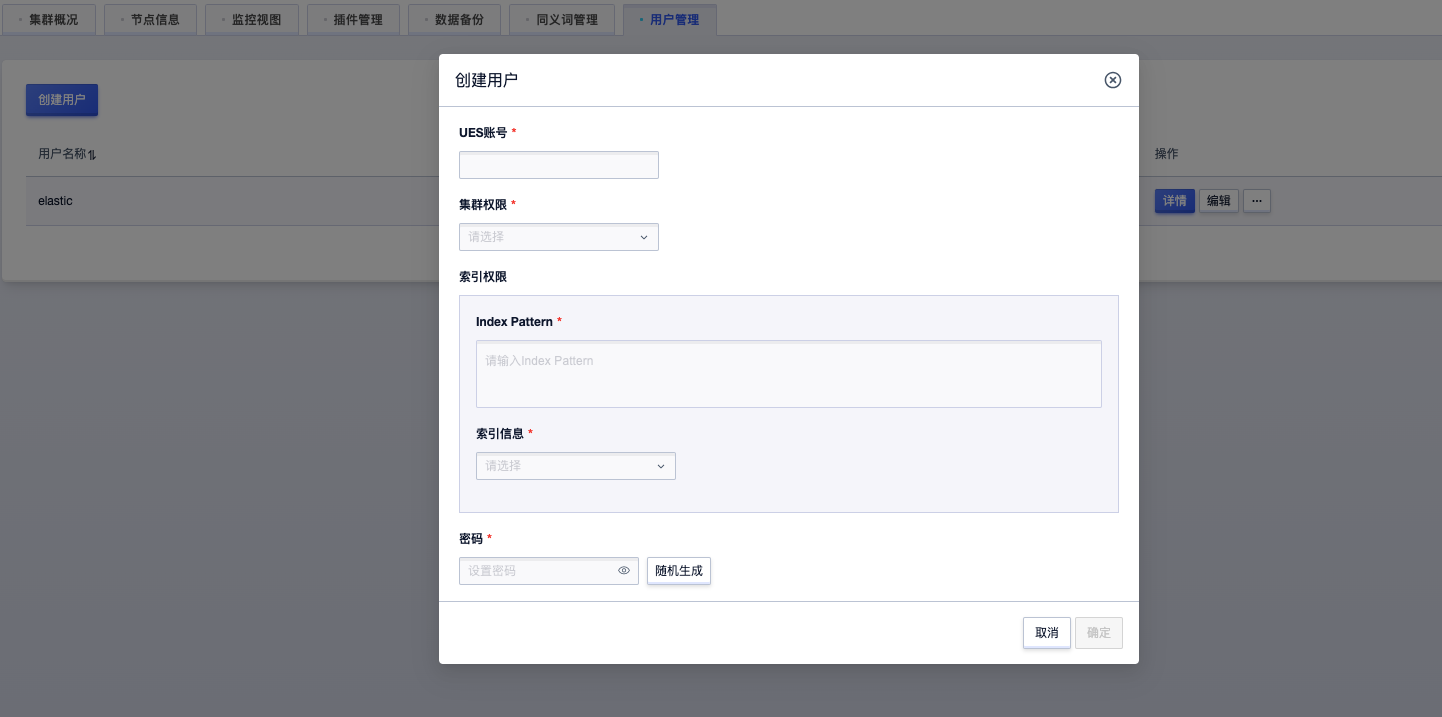
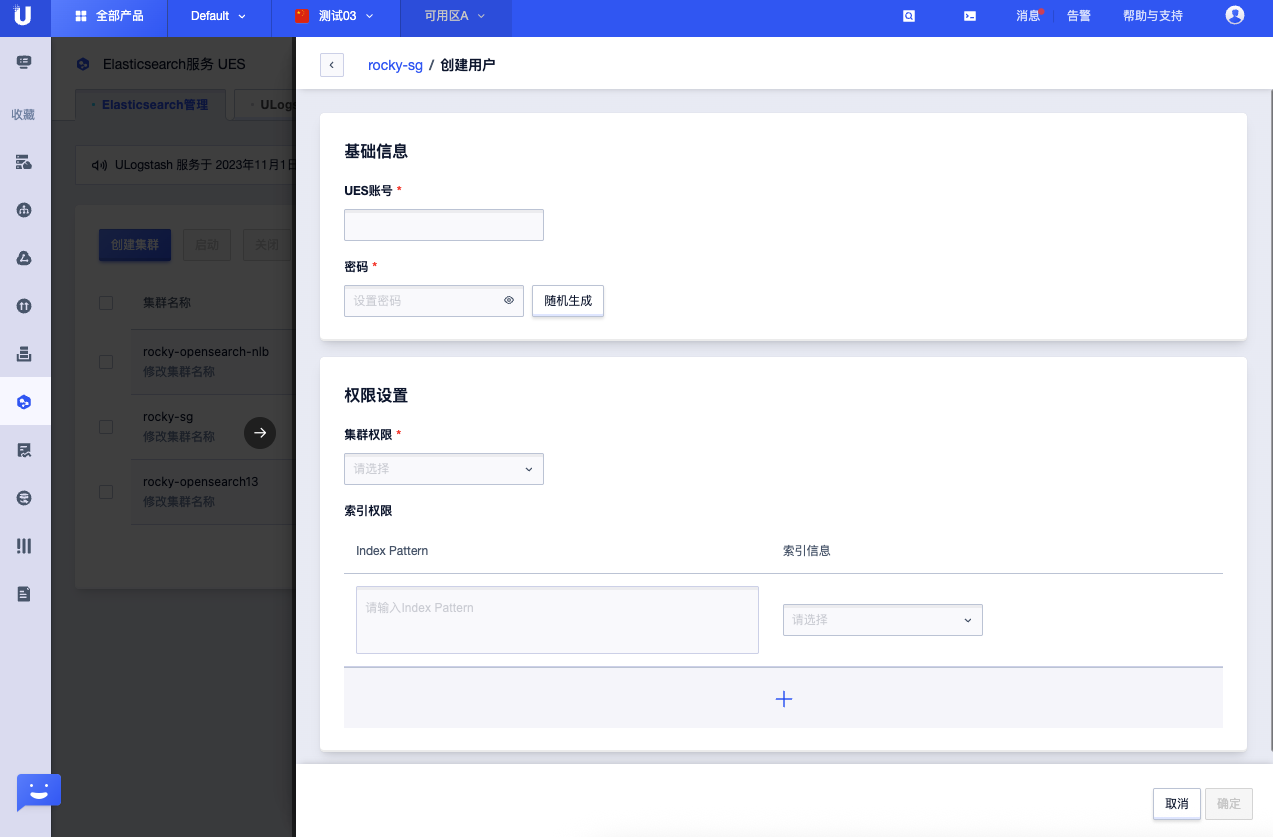
批量创建与编辑权限

diff --git a/security/manager.md b/security/manager.md
@@ -44,7 +44,7 @@ UES 安全用户创建、修改、删除等相关功能。
 
 ![image](/images/security/manager_create_user_1.png)
 
-集群权限和索引权限可以分别设置；索引权限需设置 **Index Pattern** 配合操作组使用。
+集群权限和索引权限可以分别设置；索引权限需设置 **Index Pattern** 配合操作组使用，并可添加多条。
 
 ## 三：修改用户
 
